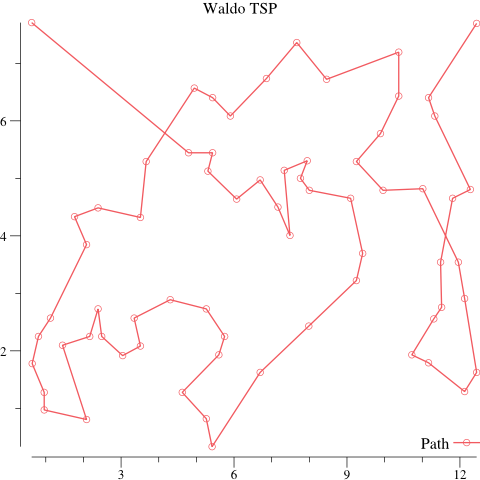
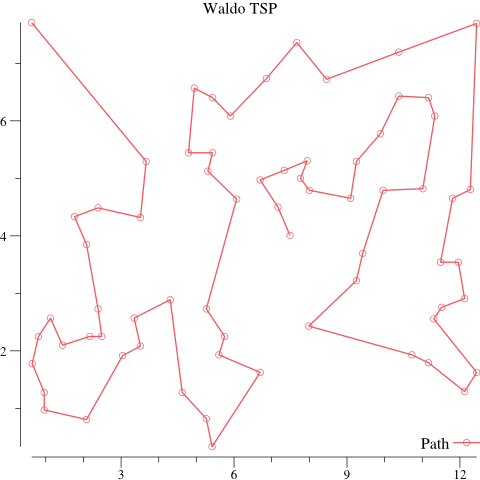
Fix bug in permute mutation, let instead of le

diff --git a/tsp/waldo/waldo.go b/tsp/waldo/waldo.go
@@ -1,90 +1,90 @@
 package main
 
 import (
-    "encoding/csv"
-    "fmt"
-    "io"
-    "math"
-    "os"
-    "strconv"
+	"encoding/csv"
+	"fmt"
+	"io"
+	"math"
+	"os"
+	"strconv"
 
-    "github.com/MaxHalford/gago/presets"
-    "github.com/gonum/plot"
-    "github.com/gonum/plot/plotter"
-    "github.com/gonum/plot/plotutil"
-    "github.com/gonum/plot/vg"
+	"github.com/MaxHalford/gago/presets"
+	"github.com/gonum/plot"
+	"github.com/gonum/plot/plotter"
+	"github.com/gonum/plot/plotutil"
+	"github.com/gonum/plot/vg"
 )
 
 type point struct {
-    x, y float64
+	x, y float64
 }
 
 func euclidian(a, b point) float64 {
-    return math.Sqrt(math.Pow(a.x-b.x, 2) + math.Pow(a.y-b.y, 2))
+	return math.Sqrt(math.Pow(a.x-b.x, 2) + math.Pow(a.y-b.y, 2))
 }
 
 var (
-    file   = "waldo.csv"
-    points = make(map[string]point)
+	file   = "waldo.csv"
+	points = make(map[string]point)
 )
 
 func init() {
-    var f, _ = os.Open(file)
-    defer f.Close()
-    var rows = csv.NewReader(f)
-    // Skip header
-    rows.Read()
-    for {
-        var row, err = rows.Read()
-        if err == io.EOF {
-            return
-        }
-        var name = row[0] + row[1]
-        var lat, _ = strconv.ParseFloat(row[2], 64)
-        var lon, _ = strconv.ParseFloat(row[3], 64)
-        points[name] = point{lat, lon}
-    }
+	var f, _ = os.Open(file)
+	defer f.Close()
+	var rows = csv.NewReader(f)
+	// Skip header
+	rows.Read()
+	for {
+		var row, err = rows.Read()
+		if err == io.EOF {
+			return
+		}
+		var name = row[0] + row[1]
+		var lat, _ = strconv.ParseFloat(row[2], 64)
+		var lon, _ = strconv.ParseFloat(row[3], 64)
+		points[name] = point{lat, lon}
+	}
 }
 
 func distance(trip []string) float64 {
-    var total = 0.0
-    for i := 0; i < len(trip)-1; i++ {
-        total += euclidian(points[trip[i]], points[trip[i+1]])
-    }
-    return total
+	var total = 0.0
+	for i := 0; i < len(trip)-1; i++ {
+		total += euclidian(points[trip[i]], points[trip[i+1]])
+	}
+	return total
 }
 
 func graph(P []string) {
-    var XY = make(plotter.XYs, len(P))
-    for i, p := range P {
-        // Store the best fitness for plotting
-        XY[i].X = points[p].x
-        XY[i].Y = points[p].y
-    }
-    var p, _ = plot.New()
-    p.Title.Text = "Waldo TSP"
-    plotutil.AddLinePoints(p, "Path", XY)
-    // Save the plot to a PNG file.
-    if err := p.Save(5*vg.Inch, 5*vg.Inch, "waldo.png"); err != nil {
-        panic(err)
-    }
+	var XY = make(plotter.XYs, len(P))
+	for i, p := range P {
+		// Store the best fitness for plotting
+		XY[i].X = points[p].x
+		XY[i].Y = points[p].y
+	}
+	var p, _ = plot.New()
+	p.Title.Text = "Waldo TSP"
+	plotutil.AddLinePoints(p, "Path", XY)
+	// Save the plot to a PNG file.
+	if err := p.Save(5*vg.Inch, 5*vg.Inch, "waldo.png"); err != nil {
+		panic(err)
+	}
 }
 
 func main() {
-    // Get the names of the points
-    var names []string
-    for name := range points {
-        names = append(names, name)
-    }
-    // Create the GA
-    var ga = presets.TSP(names, distance)
-    ga.Initialize()
-    // Enhance
-    for i := 0; i < 80000; i++ {
-        ga.Enhance()
-    }
-    fmt.Println(ga.Best.Fitness)
-    // Extract the genome of the best individual
-    var points = ga.Best.Genome.CastString()
-    graph(points)
+	// Get the names of the points
+	var names []string
+	for name := range points {
+		names = append(names, name)
+	}
+	// Create the GA
+	var ga = presets.TSP(names, distance)
+	ga.Initialize()
+	// Enhance
+	for i := 0; i < 20000; i++ {
+		ga.Enhance()
+	}
+	fmt.Println(ga.Best.Fitness)
+	// Extract the genome of the best individual
+	var points = ga.Best.Genome.CastString()
+	graph(points)
 }
